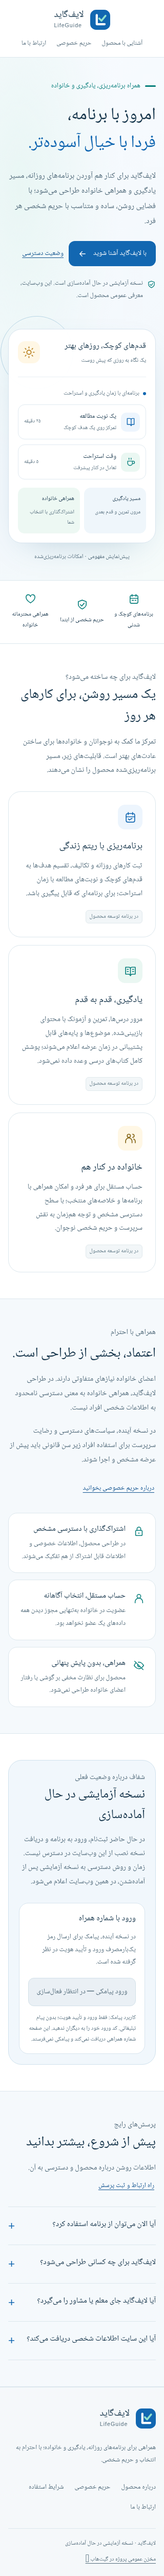
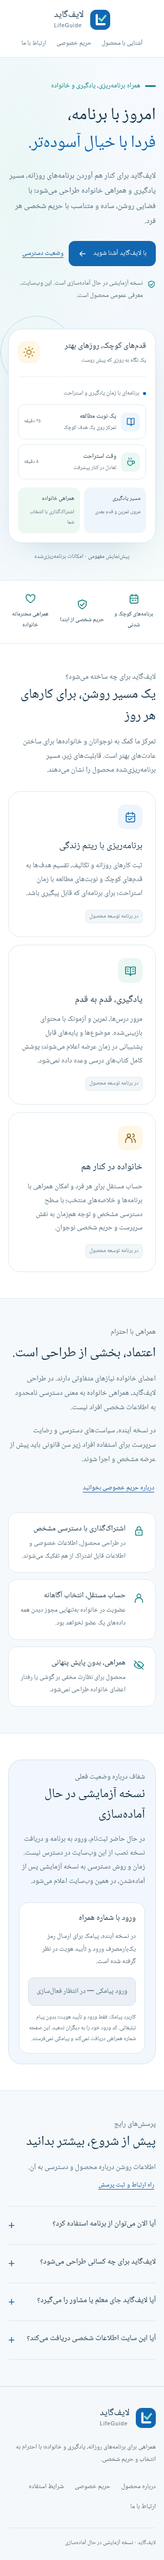
fix: remove source repository references from public site

diff --git a/site/review/support.html b/site/review/support.html
@@ -3,7 +3,7 @@
 <head>
   <meta charset="utf-8">
   <meta name="viewport" content="width=device-width, initial-scale=1">
-  <meta name="description" content="راه فعلی ثبت پرسش و گزارش مشکل درباره وبسایت معرفی لایفگاید.">
+  <meta name="description" content="وضعیت راه ارتباطی و پشتیبانی لایفگاید.">
   <meta name="theme-color" content="#1267b1">
   <meta http-equiv="Content-Security-Policy" content="default-src 'none'; style-src 'self'; font-src 'self'; img-src 'self'; base-uri 'none'; form-action 'none'; connect-src 'none'; frame-src 'none'">
   <title>ارتباط با ما | لایفگاید</title>
@@ -28,22 +28,20 @@
 
   <main id="main">
     <section class="page-hero" aria-labelledby="page-title">
-      <div class="container"><div class="breadcrumb"><a href="./">صفحه اصلی</a> / ارتباط با ما</div><h1 id="page-title">ارتباط با ما</h1><p>راه فعلی ثبت پرسش و گزارش مشکل درباره وبسایت معرفی لایفگاید.</p></div>
+      <div class="container"><div class="breadcrumb"><a href="./">صفحه اصلی</a> / ارتباط با ما</div><h1 id="page-title">ارتباط با ما</h1><p>وضعیت راه ارتباطی و پشتیبانی لایفگاید.</p></div>
     </section>
     <div class="container document">
       <div class="notice"><p>نسخه آزمایشی لایفگاید در حال آمادهسازی است. ورود پیامکی هنوز فعال نیست؛ برای استفاده از این وبسایت نیازی به شماره همراه یا کد ورود ندارید.</p></div>
-      <h2>ثبت پرسش یا گزارش مشکل</h2>
-      <p>در حال حاضر میتوانید پرسش عمومی یا مشکل این وبسایت را در مخزن عمومی پروژه در گیتهاب ثبت کنید. برای ثبت گزارش ممکن است به حساب گیتهاب نیاز داشته باشید. زمان پاسخگویی مشخص یا پشتیبانی شبانهروزی اعلام نشده است.</p>
-      <a class="button" href="https://github.com/davoodmehraban89/LifeMate/issues/new">ثبت پرسش یا مشکل در گیتهاب ↗</a>
+      <h2>وضعیت پشتیبانی</h2>
+      <p>راه ارتباطی پشتیبانی همزمان با فعالشدن نسخه آزمایشی در همین صفحه اعلام خواهد شد. در حال حاضر فرم یا سامانه ثبت درخواست در این وبسایت فعال نیست.</p>
       <h2>مراقب اطلاعات شخصی باشید</h2>
-      <p>گزارشهای این مخزن عمومی هستند. شماره همراه، کد ورود، اطلاعات کودک یا نوجوان، جزئیات خانوادگی و اطلاعات محرمانه را در آنها ننویسید. برای گزارش مشکل ظاهری صفحه، نام صفحه، نوع دستگاه و شرح کوتاه مشکل کافی است.</p>
+      <p>برای مشاهده این وبسایت نیازی به ارسال شماره همراه، کد ورود یا اطلاعات خانوادگی نیست. کدهای ورود و اطلاعات محرمانه خود را در اختیار دیگران قرار ندهید.</p>
       <div class="support-grid">
         <section class="support-card"><h2>درباره محصول</h2><p>هدف لایفگاید و امکانات برنامهریزیشده آن را در صفحه اصلی ببینید.</p><a href="./#features">آشنایی با لایفگاید</a></section>
         <section class="support-card"><h2>وضعیت دسترسی</h2><p>اطلاعرسانی درباره آمادهشدن نسخه آزمایشی در همین وبسایت انجام میشود.</p><a href="./#availability">مشاهده وضعیت فعلی</a></section>
       </div>
       <h2>درباره پروژه</h2>
-      <p>نام محصول <strong>لایفگاید</strong>، به انگلیسی <bdi lang="en">LifeGuide</bdi> است. مسیر توسعه فنی محصول در مخزن عمومی پروژه قابل مشاهده است.</p>
-      <p><a href="https://github.com/davoodmehraban89/LifeMate">مشاهده مخزن عمومی پروژه در گیتهاب ↗</a></p>
+      <p>نام محصول <strong>لایفگاید</strong>، به انگلیسی <bdi lang="en">LifeGuide</bdi> است. هدف آن همراهی در برنامهریزی روزانه، یادگیری و ارتباط خانواده است.</p>
     </div>
   </main>
   <footer class="site-footer">
@@ -52,7 +50,7 @@
         <div class="footer-brand"><a class="brand" href="./"><img src="assets/brand.svg" width="44" height="44" alt=""><span><span class="brand-name">لایفگاید</span><span class="brand-en" lang="en" dir="ltr">LifeGuide</span></span></a><p>همراهی برای برنامههای روزانه، یادگیری و خانواده؛ با احترام به انتخاب و حریم شخصی.</p></div>
         <nav class="footer-links" aria-label="پیوندهای تکمیلی"><a href="./#features">درباره محصول</a><a href="privacy.html">حریم خصوصی</a><a href="terms.html">شرایط استفاده</a><a href="support.html">ارتباط با ما</a></nav>
       </div>
-      <div class="footer-bottom"><p>لایفگاید · نسخه آزمایشی در حال آمادهسازی</p><a href="https://github.com/davoodmehraban89/LifeMate" lang="fa">مخزن عمومی پروژه در گیتهاب ↗</a></div>
+      <div class="footer-bottom"><p>لایفگاید · نسخه آزمایشی در حال آمادهسازی</p></div>
     </div>
   </footer>
 </body>

diff --git a/site/review/privacy.html b/site/review/privacy.html
@@ -35,8 +35,8 @@
       <h2>این وبسایت چه دادهای دریافت میکند؟</h2>
       <p>این صفحهها فرم، حساب کاربری، پایگاه داده کاربران، ابزار تحلیل بازدید، تبلیغات یا محتوای جاسازیشده از سرویسهای دیگر ندارند. شماره همراه، اطلاعات فرزند، برنامه درسی یا کد ورود شما در این وبسایت دریافت یا ذخیره نمیشود. این صفحهها کوکی تنظیم نمیکنند و دادهای در حافظه محلی مرورگر نمینویسند.</p>
       <h2>اطلاعات فنی میزبانی</h2>
-      <p>وبسایت روی GitHub Pages میزبانی میشود. ارائهدهنده میزبانی ممکن است برای ارائه و امنیت سرویس، اطلاعات فنی درخواستهای وب مانند نشانی IP و مشخصات مرورگر را در گزارشهای خود ثبت کند. پردازش و نگهداری این گزارشها تابع سیاستهای ارائهدهنده میزبانی است.</p>
-      <p>فونت، نشان و فایلهای نمایشی از همین وبسایت بارگیری میشوند. پیوند گیتهاب شما را به یک سرویس مستقل هدایت میکند که شرایط و سیاست حریم خصوصی خودش را دارد.</p>
+      <p>ارائهدهنده میزبانی وبسایت ممکن است برای ارائه و امنیت سرویس، اطلاعات فنی درخواستهای وب مانند نشانی IP و مشخصات مرورگر را در گزارشهای خود ثبت کند. پردازش و نگهداری این گزارشها تابع سیاستهای ارائهدهنده میزبانی است.</p>
+      <p>فونت، نشان و فایلهای نمایشی از همین وبسایت بارگیری میشوند.</p>
       <h2>پیامک ورود در نسخه آینده</h2>
       <p>برای نسخه آینده، استفاده از شماره همراه جهت ورود و تأیید هویت با رمز یکبارمصرف برنامهریزی شده است. هدف این پیامک فقط ورود و تأیید هویت است و پیام تبلیغاتی ارسال نخواهد شد. در حال حاضر این امکان در این وبسایت فعال نیست.</p>
       <p>پیش از فعالسازی ثبتنام، جزئیات دادههای موردنیاز، سرویس پیامک، مدت نگهداری اطلاعات و راه درخواست حذف یا اصلاح آنها باید در سیاست حریم خصوصی نسخه برنامه اعلام شود.</p>
@@ -44,7 +44,7 @@
       <p>برای نسخه آینده، حساب مستقل هر فرد و سطح دسترسی مشخص اعضای خانواده در نظر گرفته شده است. عضویت در خانواده نباید بهتنهایی دسترسی نامحدود به دادههای شخصی ایجاد کند. لایفگاید برای پایش مخفی گوشی یا رفتار اعضای خانواده طراحی نمیشود.</p>
       <p>پیش از عرضه قابلیتهای مربوط به افراد زیر سن قانونی، شرایط سنی، رضایت سرپرست و سیاست دسترسی به اطلاعات آنها باید مشخص و اجرا شود. این وبسایت اکنون هیچ دادهای درباره کودک یا نوجوان دریافت نمیکند.</p>
       <h2>پرسش درباره حریم خصوصی</h2>
-      <p>راه فعلی ثبت پرسش در <a href="support.html">صفحه ارتباط با ما</a> آمده است. در گیتهاب عمومی، شماره همراه، اطلاعات فرزند، رمز ورود یا هر اطلاعات شخصی و محرمانه دیگری منتشر نکنید.</p>
+      <p>وضعیت راه ارتباطی در <a href="support.html">صفحه ارتباط با ما</a> اعلام میشود. در حال حاضر دریافت پرسش یا اطلاعات شخصی از طریق این وبسایت فعال نیست.</p>
     </div>
   </main>
   <footer class="site-footer">
@@ -53,7 +53,7 @@
         <div class="footer-brand"><a class="brand" href="./"><img src="assets/brand.svg" width="44" height="44" alt=""><span><span class="brand-name">لایفگاید</span><span class="brand-en" lang="en" dir="ltr">LifeGuide</span></span></a><p>همراهی برای برنامههای روزانه، یادگیری و خانواده؛ با احترام به انتخاب و حریم شخصی.</p></div>
         <nav class="footer-links" aria-label="پیوندهای تکمیلی"><a href="./#features">درباره محصول</a><a href="privacy.html">حریم خصوصی</a><a href="terms.html">شرایط استفاده</a><a href="support.html">ارتباط با ما</a></nav>
       </div>
-      <div class="footer-bottom"><p>لایفگاید · نسخه آزمایشی در حال آمادهسازی</p><a href="https://github.com/davoodmehraban89/LifeMate" lang="fa">مخزن عمومی پروژه در گیتهاب ↗</a></div>
+      <div class="footer-bottom"><p>لایفگاید · نسخه آزمایشی در حال آمادهسازی</p></div>
     </div>
   </footer>
 </body>

diff --git a/site/review/terms.html b/site/review/terms.html
@@ -40,8 +40,8 @@
       <h2>محتوای آموزشی و راهنمایی</h2>
       <p>امکانات آموزشی برنامهریزیشده، کمک به مرور و تمرین هستند. پوشش کامل همه کتابها، پایهها یا برنامه درسی مدارس وعده داده نمیشود. موضوعهای قابل پشتیبانی و محدوده محتوای بازبینیشده در زمان عرضه اعلام میشوند.</p>
       <p>لایفگاید جایگزین معلم، مشاور حرفهای، پزشک یا خدمات اضطراری نیست. این وبسایت خدمت مشاوره، تشخیص پزشکی یا هوش مصنوعی فعال ارائه نمیکند.</p>
-      <h2>پیوندها و ارتباط</h2>
-      <p>پیوندهای گیتهاب برای مشاهده مخزن عمومی یا ثبت پرسش عمومی ارائه شدهاند. استفاده از گیتهاب تابع شرایط همان سرویس است. زمان پاسخگویی مشخصی برای پرسشها تضمین نشده است.</p>
+      <h2>ارتباط و پشتیبانی</h2>
+      <p>راه ارتباطی پشتیبانی همزمان با فعالشدن نسخه آزمایشی در همین وبسایت اعلام خواهد شد. در حال حاضر امکان ارسال پرسش یا ثبت درخواست پشتیبانی در این وبسایت فعال نیست.</p>
       <h2>شفافیت و تغییرات</h2>
       <p>با تغییر وضعیت محصول، اطلاعات این وبسایت بهروزرسانی میشود. استفاده از خدمات آینده نیازمند اعلام شرایط و سیاست حریم خصوصی متناسب با همان خدمات خواهد بود.</p>
       <p>برای پرسش درباره این صفحه به <a href="support.html">ارتباط با ما</a> و برای توضیح دادهها به <a href="privacy.html">حریم خصوصی</a> مراجعه کنید.</p>
@@ -53,7 +53,7 @@
         <div class="footer-brand"><a class="brand" href="./"><img src="assets/brand.svg" width="44" height="44" alt=""><span><span class="brand-name">لایفگاید</span><span class="brand-en" lang="en" dir="ltr">LifeGuide</span></span></a><p>همراهی برای برنامههای روزانه، یادگیری و خانواده؛ با احترام به انتخاب و حریم شخصی.</p></div>
         <nav class="footer-links" aria-label="پیوندهای تکمیلی"><a href="./#features">درباره محصول</a><a href="privacy.html">حریم خصوصی</a><a href="terms.html">شرایط استفاده</a><a href="support.html">ارتباط با ما</a></nav>
       </div>
-      <div class="footer-bottom"><p>لایفگاید · نسخه آزمایشی در حال آمادهسازی</p><a href="https://github.com/davoodmehraban89/LifeMate" lang="fa">مخزن عمومی پروژه در گیتهاب ↗</a></div>
+      <div class="footer-bottom"><p>لایفگاید · نسخه آزمایشی در حال آمادهسازی</p></div>
     </div>
   </footer>
 </body>

diff --git a/site/review/index.html b/site/review/index.html
@@ -156,7 +156,7 @@
         <div class="footer-brand"><a class="brand" href="./"><img src="assets/brand.svg" width="44" height="44" alt=""><span><span class="brand-name">لایفگاید</span><span class="brand-en" lang="en" dir="ltr">LifeGuide</span></span></a><p>همراهی برای برنامههای روزانه، یادگیری و خانواده؛ با احترام به انتخاب و حریم شخصی.</p></div>
         <nav class="footer-links" aria-label="پیوندهای تکمیلی"><a href="#features">درباره محصول</a><a href="privacy.html">حریم خصوصی</a><a href="terms.html">شرایط استفاده</a><a href="support.html">ارتباط با ما</a></nav>
       </div>
-      <div class="footer-bottom"><p>لایفگاید · نسخه آزمایشی در حال آمادهسازی</p><a href="https://github.com/davoodmehraban89/LifeMate" lang="fa">مخزن عمومی پروژه در گیتهاب ↗</a></div>
+      <div class="footer-bottom"><p>لایفگاید · نسخه آزمایشی در حال آمادهسازی</p></div>
     </div>
   </footer>
 </body>

diff --git a/scripts/check-review-site.py b/scripts/check-review-site.py
@@ -30,14 +30,12 @@ for path in pages:
     assert p.html.get('lang') == 'fa' and p.html.get('dir') == 'rtl', path.name
     assert p.title and p.h1 == 1, f'Single accessible page title and H1: {path.name}'
     assert 'LifeGuide' in source and 'لایفگاید' in source, f'Product identity: {path.name}'
-    branding = source.replace('https://github.com/davoodmehraban89/LifeMate', '')
-    assert not any(x.lower() in branding.lower() for x in ['LifeMate', 'up.railway.app', 'googleapis.com', 'gstatic.com']), path.name
+    assert not any(x.lower() in source.lower() for x in ['LifeMate', 'up.railway.app', 'googleapis.com', 'gstatic.com']), path.name
+    assert not any(x in source.lower() for x in ['github', 'گیتهاب', 'گیتهاب', 'گیتاب', 'مخزن']), f'No repository references on public pages: {path.name}'
     for tag, key, ref, attrs in p.refs:
         u = urlsplit(ref)
         if u.scheme or u.netloc:
-            assert tag == 'a' and key == 'href' and u.scheme == 'https' and u.hostname == 'github.com', f'External runtime dependency or invented contact: {path.name}'
-            if attrs.get('target') == '_blank': assert 'noopener' in attrs.get('rel', '').split()
-            continue
+            raise AssertionError(f'Public links and assets must stay within this website: {path.name}')
         if not u.path: continue
         target = (path.parent / u.path.lstrip('/')).resolve()
         if target.is_dir(): target = target / 'index.html'
@@ -45,8 +43,12 @@ for path in pages:
 for path in root.rglob('*'):
     assert not path.is_symlink(), 'Only owned static files in public artifact'
     if path.is_file():
+        public_bytes = path.read_bytes().lower()
+        assert b'davoodmehraban89' not in public_bytes and b'lifemate' not in public_bytes, f'No product source identifiers in public artifacts: {path.name}'
         assert path.suffix not in {'.jks', '.keystore', '.dump', '.env', '.pem', '.key'}, 'No private artifacts'
         assert path.stat().st_size < 5_000_000, 'Keep public review fast and bounded'
+        if path.name == 'build-info.json':
+            assert json.loads(path.read_text()) == {'product': 'LifeGuide', 'purpose': 'public-product-review', 'liveLogin': False}, 'Public status must not expose source identifiers'
         if path.suffix == '.css':
             css=path.read_text().lower()
             assert 'http:' not in css and 'https:' not in css and '@import' not in css, 'Local CSS/fonts only'

diff --git a/docs/audits/2026-10-15-public-review-verification.md b/docs/audits/2026-10-15-public-review-verification.md
@@ -4,7 +4,7 @@
 
 ## اجراهای واقعی محلی
 
-- `python3 scripts/check-review-site.py`: PASS؛ چهار HTML فارسی RTL، نام LifeGuide، لینکها/داراییهای محلی، CNAME صحیح، عدم فرم/اسکریپت/API و مرز artifact عمومی بررسی شدند. checker لینک واقعی مخزن LifeMate و مسیر `./` به index را از خطای کاذب مستثنی میکند؛ نام محصول روی صفحه LifeGuide است.
+- `python3 scripts/check-review-site.py`: PASS؛ چهار HTML فارسی RTL، نام LifeGuide، لینکها/داراییهای محلی، CNAME صحیح، عدم فرم/اسکریپت/API و مرز artifact عمومی بررسی شدند. مسیر `./` به index بررسی میشود؛ نام محصول روی صفحه LifeGuide است. پس از اصلاح درخواستی مالک، استثنای لینک مخزن حذف و هرگونه ارجاع محصول به سورس ممنوع شد.
 - مرورگر واقعی Chromium با Playwright روی HTTP محلی: **۱۲/۱۲**، چهار صفحه در عرضهای۳۲۰/۳۹۰/۱۲۸۰. فونت محلی واقعاً بارگیری شد، overflow افقی نداشت، دکمه OTP غیرفعال بود، لینک حریم خصوصی باز شد، ورودی/فرم/اسکریپت/iframe/کوکی/localStorage/sessionStorage وجود نداشت. **۷۵ درخواست محلی، صفر درخواست خارجی، صفر خطای کنسول/شبکه**. [receipt](evidence/pages-browser-2026-10-15.json). این اجرا HTTPS عمومی، Safari واقعی یا اتصال Backend را آزموده معرفی نمیکند.
 - YAML با PyYAML parse شد و شرط main-only، permissions جداگانه و مرز `site/review` بررسی شد. `git diff --check` روی فایلهای tracked اولیه موفق بود؛ بررسی staged سپس یک فاصله انتهایی در کپی مجوز فونت یافت. فقط همان whitespace اصلاح و بررسی staged دوباره اجرا شد. بازبینی مستقل، مانع اجرایی در محتوا/Workflow پیدا نکرد؛ بازبینی به معنی اجرای deploy نیست.
 
@@ -27,3 +27,15 @@ run38695022648 برای source92fffe2، security و backend را موفق و Flu
 run38694970653 ساخت صفحه را واقعاً موفق و deploy را SKIPPED گزارش کرد. لاگ validator چهار صفحه PASS و upload artifact11954051844 با142081bytes را ثبت کرد؛ این موفقیت deploy نیست. دانلود مستقل artifact از CLI با403 مقصد موقت شکست خورد و محتوی آن مستقل تأیید نشده است؛ هیچ ادعای موفقیت دانلود وجود ندارد.
 
 پس از دو اصلاح پایه، `flutter analyze --no-pub` محلی No issues و `flutter test --no-pub` **۵/۵ موفق** شد. این پنج تست مربوط به app پایه main است، نه شاخه توسعه آنلاین خانواده. ابزار Flutter هنگام pub get فایل تنظیم analysis و lock تولید کرد؛ تغییرهای تولیدی وارد PR نشدند. validator چهار صفحه بعد از اصلاحها دوباره PASS شد.
+
+## اصلاح ارجاع سورس به درخواست مالک
+
+ارجاعهای مخزن و GitHub Issues از هر چهار صفحه، متن معرفی گیتهاب در حریم خصوصی/شرایط و لینکهای footer حذف شدند. پشتیبانی تا اعلام یک کانال واقعی در انتظار فعالسازی است؛ هیچ آدرس یا فرم ساختگی اضافه نشد. افشای امکان ثبت درخواستهای فنی توسط میزبان بهصورت عمومی و بدون نام سرویس حفظ شد. فایل metadata عمومی دیگر SHA/run ندارد و validator پس از تولید آن نیز اجرا میشود. مجوز قانونی فونت شخص ثالث بدون تغییر حفظ شد و به سورس محصول اشاره ندارد.
+
+بررسی اصلاحشده ابتدا روی نسخه قبلی با AssertionError در privacy.html به دلیل URL مخزن/LifeMate شکست خورد (RED). پس از حذف ارجاعها، validator روی چهار صفحه PASS شد (GREEN). خود دستور تولید build-info از YAML واقعاً بهصورت محلی اجرا و خروجی با همان validator بررسی شد؛ فقط product/purpose/liveLogin مجازند. فایل موقت پس از بررسی حذف شد.
+
+مرورگر واقعی دوباره۱۲/۱۲ در عرضهای۳۲۰/۳۹۰/۱۲۸۰ موفق شد؛ این بار نبود ارجاع مخزن در HTML رندرشده و نبود لینک خارجی نیز در هر صفحه بررسی شد.۷۵ درخواست محلی، صفر درخواست خارجی/خطای کنسول/شبکه. receipt و سه تصویر همین گزارش با نسخه اصلاحشده جایگزین شدند.
+
+CI کامل source cdee4c06dcf5032006a1b2cf20c288f0a527a9a3 پیش از این اصلاح با run38696088266 SUCCESS شد: backend۱۳/۱۳، security، Flutter analyze/test و ساخت web/APK موفق بودند. Pages run38696088460 build SUCCESS و deploy SKIPPED بود. آن اجراها شواهد نسخه پیش از حذف لینکها هستند؛ CI commit این اصلاح تا دریافت خروجی تازه UNVERIFIED است. صفحه عمومی هنوز deploy نشده است.
+
+بازبینی مستقل همین اصلاح، مانع مسدودکننده پیدا نکرد: validator چهار صفحه و diff whitespace موفق، اسکن۱۰ فایل عمومی بدون شناسه حساب/مخزن محصول، و مجوز فونت byte-identical با نسخه قبل بود. این بازبینی ادعای deploy نیست.

diff --git a/PROJECT_STATE.md b/PROJECT_STATE.md
@@ -8,10 +8,12 @@ Updated: 2026-10-15. مخزن `davoodmehraban89/LifeMate` حفظ میشود. 
 
 صفحه `site/review` فارسی RTL، معرفی محصول/هدف، حریم خصوصی، شرایط و مسیر پشتیبانی دارد. ورود پیامکی در انتظار فعالسازی است؛ این سایت شماره/فرم/داده خصوصی یا سرویس AI جمعآوری نمیکند. GitHub Pages میزبانی HTML و Actions انتشار را انجام میدهند؛ Backend/PostgreSQL و OTP واقعی باید جدا عملیاتی شوند. صفحه معرفی، نسخه کامل آنلاین اپلیکیشن نیست.
 
+اصلاح مورد درخواست مالک: هیچ لینک یا معرفی مخزن، سورس، گیتهاب یا حساب توسعهدهنده در صفحههای عمومی مجاز نیست؛ خصوصیکردن احتمالی آینده مخزن در نظر گرفته میشود. ارجاعهای قبلی از هر چهار صفحه و شناسههای commit/run از metadata عمومی حذف شدند. راه پشتیبانی تا تعیین کانال واقعی در انتظار فعالسازی است. الزام قانونی مجوز فونت شخص ثالث حفظ میشود؛ این مجوز به سورس محصول اشاره ندارد. checker این مرز را قبل و بعد از تولید metadata بررسی میکند.
+
 ## مانع فعلی دامنه
 
 [ممیزی خواندنی۱۵اکتبر](docs/audits/2026-10-15-pages-dns.md): DNS عمومی app، دو IP آروان را برمیگرداند و CNAME عمومی ندارد؛ Pages روی دامنه درست تنظیم است ولی گواهی ندارد. HTTP200 فعلی صرفاً loader قدیمی LifeMate است و معرفی قابل بررسی ندارد. تنظیم مورد نیاز: `CNAME app → davoodmehraban89.github.io` با proxy/CDN خاموش (DNS-only). رکورد فعلی ممکن است CNAME پروکسیشده باشد؛ باید مقصد بررسی و proxy خاموش شود. NS، دامنه اصلی، ایمیل و TXT دست نمیخورند. دسترسی متصل به پنل آروان در اختیار تیم نیست.
 
-[راهنمای انتشار و DNS](docs/operations/PUBLIC_REVIEW_PAGE.md). تمام آزمون/CI/deploy این شاخه تا ثبت خروجی در گزارش تحویل UNVERIFIED است؛ وضعیت تأیید کاوهنگار و دسترسی ایران نیز UNVERIFIED میماند. هیچ پیام/تیکتی برای کاوهنگار ارسال نشده است.
+[راهنمای انتشار و DNS](docs/operations/PUBLIC_REVIEW_PAGE.md). شواهد اجراهای محلی و CI هر نسخه در [گزارش آزمون](docs/audits/2026-10-15-public-review-verification.md) ثبت میشود؛ CI اصلاح فعلی تا دریافت نتیجه تازه و deploy عمومی تا اجرای واقعی UNVERIFIED است؛ وضعیت تأیید کاوهنگار و دسترسی ایران نیز UNVERIFIED میماند. هیچ پیام/تیکتی برای کاوهنگار ارسال نشده است.
 
 [checkpoint قدیمی۵اکتبر](docs/history/2026-10-05-project-state.md) تاریخی است؛ عنوانهای COMPLETE/READY آن گواه آمادهبودن عمومی امروز نیستند. توسعه آنلاین خانواده و آموزش در شاخههای مستقل ادامه دارد؛ PRهای آنها ادغام نشدهاند. Feature1، مدل پروفایل/خانواده و schema/JWT فعلی در این بسته تغییر نمیکنند. AI/voice خارجی و داده حساس کودک وارد این وبسایت نمیشوند.

diff --git a/docs/operations/PUBLIC_REVIEW_PAGE.md b/docs/operations/PUBLIC_REVIEW_PAGE.md
@@ -4,14 +4,14 @@
 
 ## محتوای قابل بازبینی و آزمون
 
-منبع: `site/review/`. فایلهای HTML/CSS/فونت/نشان همگی محلیاند. این سایت JavaScript، API، فرم دریافت شماره، iframe و analytics ندارد. تماس عمومی به issue گیتهاب معرفی میشود و ایمیل/شماره/هویت حقوقی ساختگی ندارد.
+منبع: `site/review/`. فایلهای HTML/CSS/فونت/نشان همگی محلیاند. این سایت JavaScript، API، فرم دریافت شماره، iframe و analytics ندارد. صفحههای عمومی هیچ ارجاعی به گیتهاب، مخزن یا سورس محصول ندارند و همه پیوندها داخلیاند. راه ارتباطی پشتیبانی در انتظار فعالسازی است؛ ایمیل، شماره یا فرم ساختگی معرفی نمیشود.
 
 ```bash
 python3 scripts/check-review-site.py
 python3 -m http.server 8765 --bind 127.0.0.1 --directory site/review
 ```
 
-این HTTP محلی فقط مشاهده developer است، پذیرش HTTPS عمومی یا Safari نیست. خروجی CI فقط `site/review` را بستهبندی میکند؛ keystore، env، APK، کد Backend و داده خصوصی وارد Pages نمیشوند. `build-info.json` در CI شناسه commit/run و `liveLogin:false` را ثبت میکند.
+این HTTP محلی فقط مشاهده developer است، پذیرش HTTPS عمومی یا Safari نیست. خروجی CI فقط `site/review` را بستهبندی میکند؛ keystore، env، APK، کد Backend و داده خصوصی وارد Pages نمیشوند. `build-info.json` فقط نام محصول، هدف صفحه و `liveLogin:false` را ثبت میکند؛ شناسه commit/run و مسیر مخزن در خروجی عمومی قرار نمیگیرند. شواهد منبع ساخت در اجرای Actions باقی میمانند.
 
 ## انتشار GitHub Pages
 
